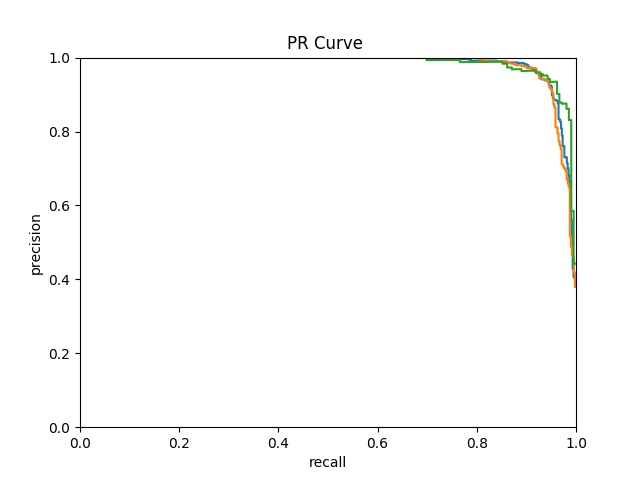
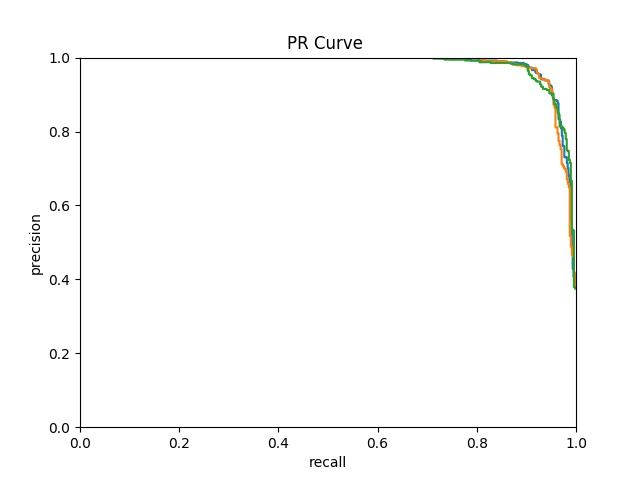
modify readme

Changed region(s): [[0.7188, 0.0938, 0.9062, 0.375], [0.875, 0.4062, 0.9062, 0.5], [0.875, 0.5312, 0.9062, 0.5938]]

diff --git a/testengine.py b/testengine.py
@@ -36,14 +36,14 @@ parser.add_argument("-i", "--imgpath", help="A list of paths for image data",  t
                              #'/mnt/data7/resampled_data/resampled_test_3']
                         ])
 parser.add_argument("-o", "--savenpy", help="A path to save record",  type=str,
-                    default='saves/test_2.npy')
+                    default='saves/test_pp.npy')
 parser.add_argument("-e", "--exclude_list", help="A path to a txt file for excluded data list. If no file need to be excluded, "
                                                  "it should be 'none'.",  type=str,
                     default='ipt_results/answer.txt')
 parser.add_argument("-v", "--invert_exclude", help="Whether to invert exclude to include",  type=bool,
                     default=False)
 parser.add_argument("-p", "--model_path", help="Whether to invert exclude to include",  type=str,
-                    default='weights/model_again.pt')
+                    default='weights/model_plusplus.pt')
 parser.add_argument("-g", "--gpuid", help="gpuid",  type=str,
                     default='2')
 args = parser.parse_args()
@@ -150,7 +150,7 @@ class Validator():
                     genderacc = gender.cpu().numpy().reshape(gender.size(0)) == maxindices_gender.numpy()
                     output_gender_numpy = np.exp(out_gender.cpu().numpy()[:, 1]).mean()
                     gender_numpy=gender.cpu().numpy()
-                    ages_mse,oa=self.age_function(out_age, age)
+                    #ages_mse,oa=self.age_function(out_age, age)
                 #_, maxindices = vector.cpu().max(1)  ##vector--outputs
 
                 output_numpy = vector
@@ -160,7 +160,7 @@ class Validator():
                 ####
                 LL.append([name[0],output_numpy, label_numpy])
                 if self.use_plus and gender_numpy[0]>-1:
-                    print(name[0], isacc, vector, 'sex:', genderacc, 'age:', oa)
+                    print(name[0], isacc, vector, 'sex:', genderacc)
                 else:
                     print(name[0],isacc,vector)
                 # argmax = (-vector.cpu().numpy()).argsort()
@@ -178,7 +178,7 @@ class Validator():
 
                     if self.use_plus and gender_numpy[i]>-1:
                         GG.append([output_gender_numpy,gender_numpy[i]])
-                        AA+=ages_mse
+                        #AA+=ages_mse
                         if genderacc[i]==1 and gender[i]==0 :
                             count[2] += 1
                         if genderacc[i]==1 and gender[i]==1 :

diff --git a/plot_roc.py b/plot_roc.py
@@ -16,7 +16,7 @@ import argparse
 parser = argparse.ArgumentParser()
 
 parser.add_argument("-i", "--ress", help="A list of npy files which record the performance.", type=list,
-                    default=['saves/test_2.npy','saves/test_plus.npy','gender.npy'])
+                    default=['saves/test_2.npy','saves/test_plus.npy','saves/test_pp.npy'])
 parser.add_argument("-o", "--output_file", help="Output file path", type=str,
                     default='saves/results.csv')
 args = parser.parse_args()
